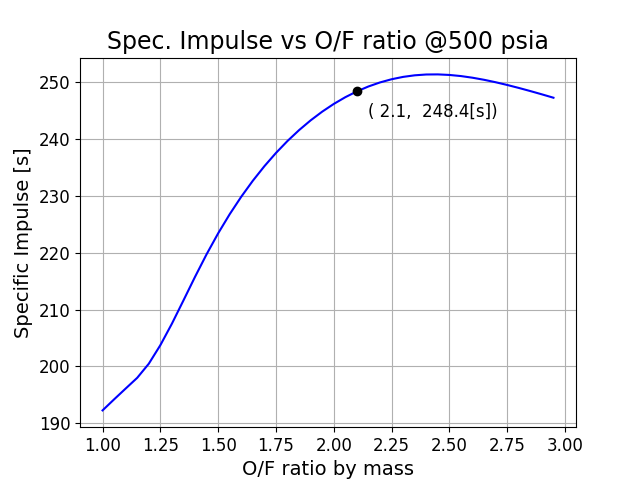
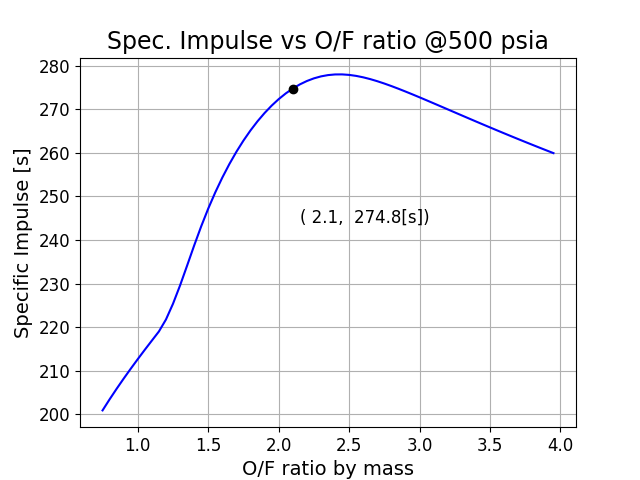
graphs rerun

diff --git a/TCA/TCA Sizing Code Files/Final_Graphing_Script.py b/TCA/TCA Sizing Code Files/Final_Graphing_Script.py
@@ -17,6 +17,10 @@ np.set_printoptions(legacy='1.25')   #Fix for some numpy float printing isssues 
 
 #Rankine to Kelvin conversion factor
 rankineToKelvin = 5.0 / 9.0
+#kg to lbm conversion
+kg_to_lbm = 2.20462
+#inches to meter conversion
+in_to_m = 0.0254
 
 ##################################
 #Define NASA Chemical Equilibrium with Applications (CEA) Object
@@ -42,8 +46,15 @@ pHi = 55   #Lower bound of pc divided by 10 plus 1:  (pc / 10) + 1
 
 #VARIABLES
 
+##################################
+#REPLACE PATH WITH PATH YOU NEED FOR YOUR OWN COMPUTER
+#Devin Path: 'C:\Users\igoto\Downloads\GH\Turbopump\TCA\TCA_params.yaml'
+#Dani Path: '/Users/dl/Documents/GitHub/Turbopump/TCA/TCA_params.yaml'
+#Other Path: 
+#################################
+
 #Importing yaml file containing TCA parameters
-with open(r'/Users/dl/Documents/GitHub/Turbopump/TCA/TCA_params.yaml') as file:
+with open(r'C:\Users\igoto\Downloads\GH\Turbopump\TCA\TCA_params.yaml') as file:
 	tca_params = yaml.safe_load(file)
 
 #Expansion Ratio of Nozzle
@@ -51,7 +62,7 @@ EPS = tca_params['tca_expansion_ratio']
 #Exit Diameter of Nozzle
 De = tca_params['tca_exit_diameter']
 #Exit Area of Nozzle
-Ae = np.pi * ((De / 2.0) ** 2)
+Ae = np.pi * ((De / 2.0) ** 2) * in_to_m
 #Target chamber pressure (psi)
 pc = tca_params['tca_chamber_pressure']
 #Ambient pressure (psi)
@@ -83,15 +94,23 @@ T_vals = [0] * len(mr_range)          #Empty array for thrust values
 #All Plotting Figures
 ##################################
 
+##################################
+#REPLACE ALL PATHS WITH PATH YOU NEED FOR YOUR OWN COMPUTER
+#Devin Path: "C:\Users\igoto\Downloads\GH\Turbopump\TCA\TCA Sizing Code Files\CEA Graphs\..."
+#Dani Path: "C:\Users\dl\Documents\GitHub\Turbopump\TCA\CEA Graphs\..."
+#Other Path: 
+#################################
+
 #This figure plots specific impulse values (in seconds) across a set range of O/F ratios at the chosen chamber pressure
 plt.figure(1)
 count = 0
 for mr in mr_range:
     Eps = C.get_eps_at_PcOvPe(Pc = pc, MR = mr, PcOvPe= (pc / pe))  #Optimal Nozzle Expansion Ratio for inputs
-    Isp_vals[count] = C.estimate_Ambient_Isp(Pc = pc, MR = mr, eps = Eps, Pamb = pamb)
+    isp = C.estimate_Ambient_Isp(Pc = pc, MR = mr, eps = Eps, Pamb = pamb)
+    Isp_vals[count] = isp[0]
     count = count + 1
 plt.plot(mr_range, Isp_vals, 'b')
-Isp_chosen = C.estimate_Ambient_Isp(Pc = pc, MR = of, eps = EPS, Pamb = pamb)
+Isp_chosen, x = C.estimate_Ambient_Isp(Pc = pc, MR = of, eps = EPS, Pamb = pamb)
 plt.plot(of, Isp_chosen, 'ko')
 plt.text(2.15, 244, f'({of : .1f}, {Isp_chosen : .1f}[s])', fontsize = 12)
 plt.xlabel("O/F ratio by mass", fontsize = 14)
@@ -101,7 +120,8 @@ plt.tick_params(axis='x', labelsize=12)
 plt.tick_params(axis='y', labelsize=12)
 plt.grid()
 
-plt.savefig(r"C:\Users\dl\Documents\GitHub\Turbopump\TCA\CEA Graphs\Specific_Impulse_Target_psi.png")
+#End of path (...): \Specific_Impulse_Target_psi.png
+plt.savefig(r"C:\Users\igoto\Downloads\GH\Turbopump\TCA\TCA Sizing Code Files\CEA Graphs\Specific_Impulse_Target_psi.png")
 
 #This figure plots specific impulse values (in seconds) across a set range of O/F ratios and a range of chamber pressures
 plt.figure(2)
@@ -110,7 +130,8 @@ for p in range(pLo, pHi):
     for mr in mr_range:
       po = p * 10.0     #Multiplies p values by 10 to reach actual chamber pressure to test
       Eps = C.get_eps_at_PcOvPe(Pc = po, MR = mr, PcOvPe= (po / pe))  #Optimal Nozzle Expansion Ratio for inputs
-      Isp_vals[count] = C.estimate_Ambient_Isp(Pc = po, MR = mr, eps = Eps, Pamb = pamb)
+      isp = C.estimate_Ambient_Isp(Pc = po, MR = mr, eps = Eps, Pamb = pamb)
+      Isp_vals[count] = isp[0]
       count = count + 1
     plt.plot(mr_range, Isp_vals, label = f'Chamber pressure = {po} psia')
 plt.xlabel("O/F ratio by mass")
@@ -119,7 +140,8 @@ plt.title("Specific Impulse vs O/F ratio")
 plt.grid()
 plt.legend()
 
-plt.savefig(r"C:\Users\dl\Documents\GitHub\Turbopump\TCA\CEA Graphs\Specific_Impulse_P_Range.png")
+#End of path (...): \Specific_Impulse_P_Range.png
+plt.savefig(r"C:\Users\igoto\Downloads\GH\Turbopump\TCA\TCA Sizing Code Files\CEA Graphs\Specific_Impulse_P_Range.png")
 
 #This figure plots combustion temperatures (in Fahrenhiet) across a set range of O/F ratios at the chosen chamber pressure
 plt.figure(3)
@@ -138,7 +160,8 @@ plt.tick_params(axis='x', labelsize=12)
 plt.tick_params(axis='y', labelsize=12)
 plt.grid()
 
-plt.savefig(r"C:\Users\dl\Documents\GitHub\Turbopump\TCA\CEA Graphs\Combustion_Temps_Target_psi.png")
+#End of path (...): \Combustion_Temps_Target_psi.png
+plt.savefig(r"C:\Users\igoto\Downloads\GH\Turbopump\TCA\TCA Sizing Code Files\CEA Graphs\Combustion_Temps_Target_psi.png")
 
 #This figure plots combustion temperatures (in Fahrenhiet) across a set range of O/F ratios and a range of chamber pressures
 plt.figure(4)
@@ -156,7 +179,8 @@ plt.title("Combustion Temps vs O/F ratio")
 plt.grid()
 plt.legend()
 
-plt.savefig(r"C:\Users\dl\Documents\GitHub\Turbopump\TCA\CEA Graphs\Combustion_Temps_P_Range.png")
+#End of path (...): \Combustion_Temps_P_Range.png
+plt.savefig(r"C:\Users\igoto\Downloads\GH\Turbopump\TCA\TCA Sizing Code Files\CEA Graphs\Combustion_Temps_P_Range.png")
 
 #This figure plots characteristic velocity values (in ft/s) across a set range of O/F ratios at the chosen chamber pressure
 plt.figure(5)
@@ -170,7 +194,8 @@ plt.ylabel("Characteristic Velocity [ft/s]")
 plt.title(f"Characteristic Velocity vs O/F ratio @{pc} psia")
 plt.grid()
 
-plt.savefig(r"C:\Users\dl\Documents\GitHub\Turbopump\TCA\CEA Graphs\Characteristic_Velocity_Target_psi.png")
+#End of path (...): \Characteristic_Velocity_Target_psi.png
+plt.savefig(r"C:\Users\igoto\Downloads\GH\Turbopump\TCA\TCA Sizing Code Files\CEA Graphs\Characteristic_Velocity_Target_psi.png")
 
 #This figure plots characteristic velocity values (in ft/s) across a set range of O/F ratios and a range of chamber pressures
 plt.figure(6)
@@ -187,7 +212,8 @@ plt.title("Characteristic Velocity vs O/F ratio")
 plt.grid()
 plt.legend()
 
-plt.savefig(r"C:\Users\dl\Documents\GitHub\Turbopump\TCA\CEA Graphs\Characteristic_Velocity_P_Range.png")
+#End of path (...): \Characteristic_Velocity_P_Range.png
+plt.savefig(r"C:\Users\igoto\Downloads\GH\Turbopump\TCA\TCA Sizing Code Files\CEA Graphs\Characteristic_Velocity_P_Range.png")
 
 #This figure plots coefficient of thrust values across a set range of O/F ratios at the chosen chamber pressure
 plt.figure(7)
@@ -203,7 +229,8 @@ plt.ylabel("Coefficient of Thrust")
 plt.title(f"Coefficient of Thrust vs O/F ratio @{pc} psia")
 plt.grid()
 
-plt.savefig(r"C:\Users\dl\Documents\GitHub\Turbopump\TCA\CEA Graphs\Thrust_Coefficient_Target_psi.png")
+#End of path (...): \Thrust_Coefficient_Target_psi.png
+plt.savefig(r"C:\Users\igoto\Downloads\GH\Turbopump\TCA\TCA Sizing Code Files\CEA Graphs\Thrust_Coefficient_Target_psi.png")
 
 #This figure plots coefficient of thrust values across a set range of O/F ratios and a range of chamber pressures
 plt.figure(8)
@@ -222,10 +249,11 @@ plt.title("Coefficient of Thrust vs O/F ratio")
 plt.grid()
 plt.legend()
 
-plt.savefig(r"C:\Users\dl\Documents\GitHub\Turbopump\TCA\CEA Graphs\Thrust_Coefficient_P_Range.png")
+#End of path (...): \Thrust_Coefficient_P_Range.png
+plt.savefig(r"C:\Users\igoto\Downloads\GH\Turbopump\TCA\TCA Sizing Code Files\CEA Graphs\Thrust_Coefficient_P_Range.png")
 
 plt.figure(9)
-mdot = 9.02
+mdot = tca_params['turbopump_mdot'] / kg_to_lbm
 count = 0
 for mr in mr_range:
     Ve = C.get_MachNumber(Pc = pc, MR = mr, eps = EPS) * 343   #Exit velocity in m/s
@@ -239,7 +267,8 @@ plt.ylabel("Thrust Force")
 plt.title(f"Coefficient of Thrust vs O/F ratio @{pc} psia")
 plt.grid()
 
-plt.savefig(r"C:\Users\dl\Documents\GitHub\Turbopump\TCA\CEA Graphs\Thrust_Generation_Range.png")
+#End of path (...): \Thrust_Generation_Range.png
+plt.savefig(r"C:\Users\igoto\Downloads\GH\Turbopump\TCA\TCA Sizing Code Files\CEA Graphs\Thrust_Generation_Range.png")
 
 plt.show()
 
